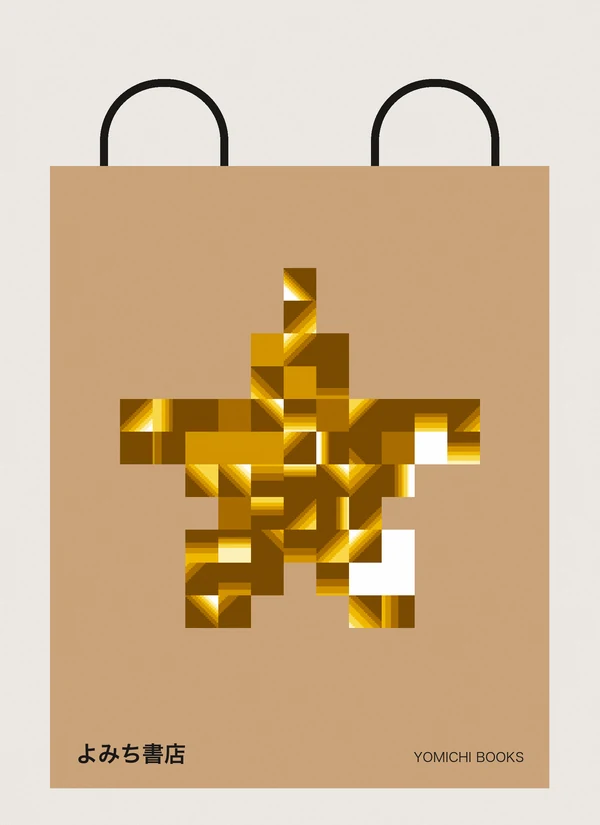
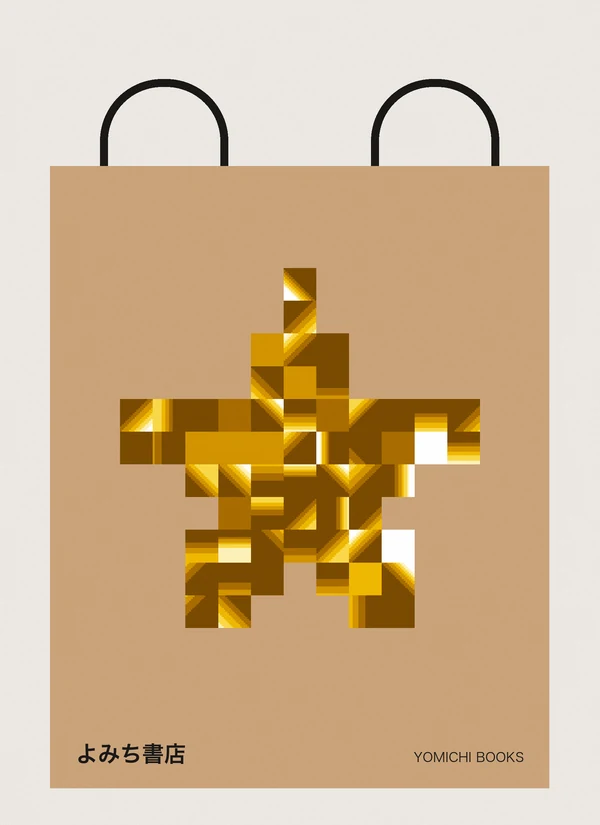
本屋さん向けページ：紙袋の星（白の升を散らす）とチューリップ（3つの花びらの先・細いくき）を作り直して差し替え
Claude-Session: https://claude.ai/code/session_01TDfKT6QVXjYoevRCepMzQQ

Changed region(s): [[0.57, 0.6667, 0.69, 0.7879], [0.3, 0.697, 0.42, 0.7879]]

diff --git a/for-bookstores.html b/for-bookstores.html
@@ -497,7 +497,7 @@
       <p class="work-desc">本を入れて渡す袋は、店を出たあとも街を歩く看板です。小さな升を並べて、花や星、月、本の形を組みました。升の中は1つずつ明るさの段を変えてあり、近くで見ると細かく、離れると形が立ちます。季節や催しに合わせて、形と色を替えて刷れます。</p>
       <p class="bk-note">6枚とも架空の本屋「よみち書店」の見本です。</p>
     </div>
-    <div class="bk-posters"><img src="assets/img/for-bookstores/tilebag-01.webp" alt="紙袋の見本・升で組んだ花（紺と緑）（架空の本屋「よみち書店」）" width="600" height="825" loading="lazy"><img src="assets/img/for-bookstores/tilebag-02.webp" alt="紙袋の見本・升で組んだ星（黄）（架空の本屋「よみち書店」）" width="600" height="825" loading="lazy"><img src="assets/img/for-bookstores/tilebag-03.webp" alt="紙袋の見本・升で組んだ三日月（橙）（架空の本屋「よみち書店」）" width="600" height="825" loading="lazy"><img src="assets/img/for-bookstores/tilebag-04.webp" alt="紙袋の見本・升で組んだ開いた本（朱）（架空の本屋「よみち書店」）" width="600" height="825" loading="lazy"><img src="assets/img/for-bookstores/tilebag-05.webp" alt="紙袋の見本・升で組んだ木（緑と茶）（架空の本屋「よみち書店」）" width="600" height="825" loading="lazy"><img src="assets/img/for-bookstores/tilebag-06.webp" alt="紙袋の見本・升で組んだチューリップ（桃と緑）（架空の本屋「よみち書店」）" width="600" height="825" loading="lazy"></div>
+    <div class="bk-posters"><img src="assets/img/for-bookstores/tilebag-01.webp" alt="紙袋の見本・升で組んだ花（紺と緑）（架空の本屋「よみち書店」）" width="600" height="825" loading="lazy"><img src="assets/img/for-bookstores/tilebag-02.webp?v=20261128b" alt="紙袋の見本・升で組んだ星（黄）（架空の本屋「よみち書店」）" width="600" height="825" loading="lazy"><img src="assets/img/for-bookstores/tilebag-03.webp" alt="紙袋の見本・升で組んだ三日月（橙）（架空の本屋「よみち書店」）" width="600" height="825" loading="lazy"><img src="assets/img/for-bookstores/tilebag-04.webp" alt="紙袋の見本・升で組んだ開いた本（朱）（架空の本屋「よみち書店」）" width="600" height="825" loading="lazy"><img src="assets/img/for-bookstores/tilebag-05.webp" alt="紙袋の見本・升で組んだ木（緑と茶）（架空の本屋「よみち書店」）" width="600" height="825" loading="lazy"><img src="assets/img/for-bookstores/tilebag-06.webp?v=20261128b" alt="紙袋の見本・升で組んだチューリップ（桃と緑）（架空の本屋「よみち書店」）" width="600" height="825" loading="lazy"></div>
   </div>
 
   <div class="bk-item wide">
